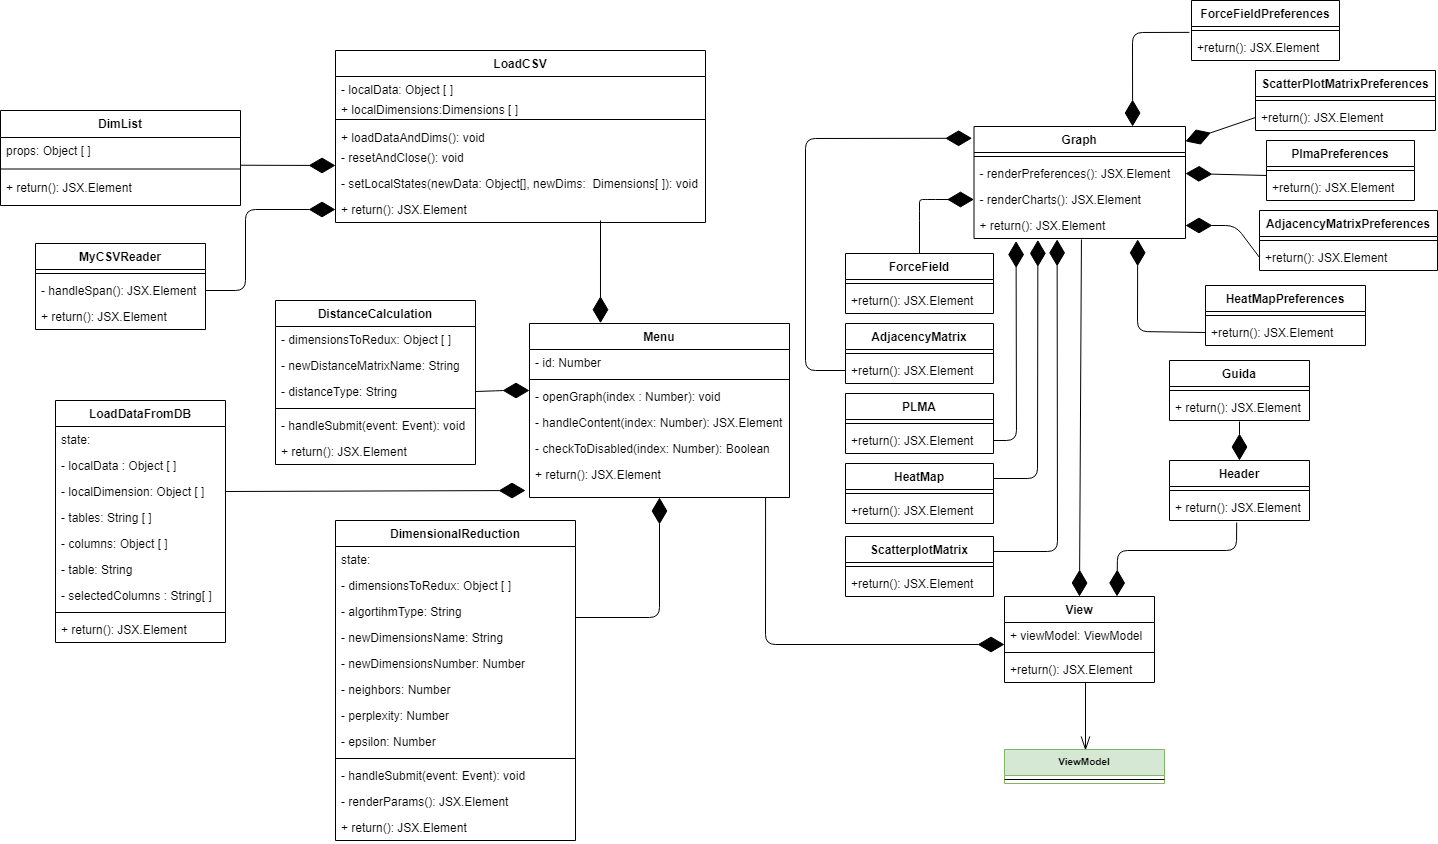
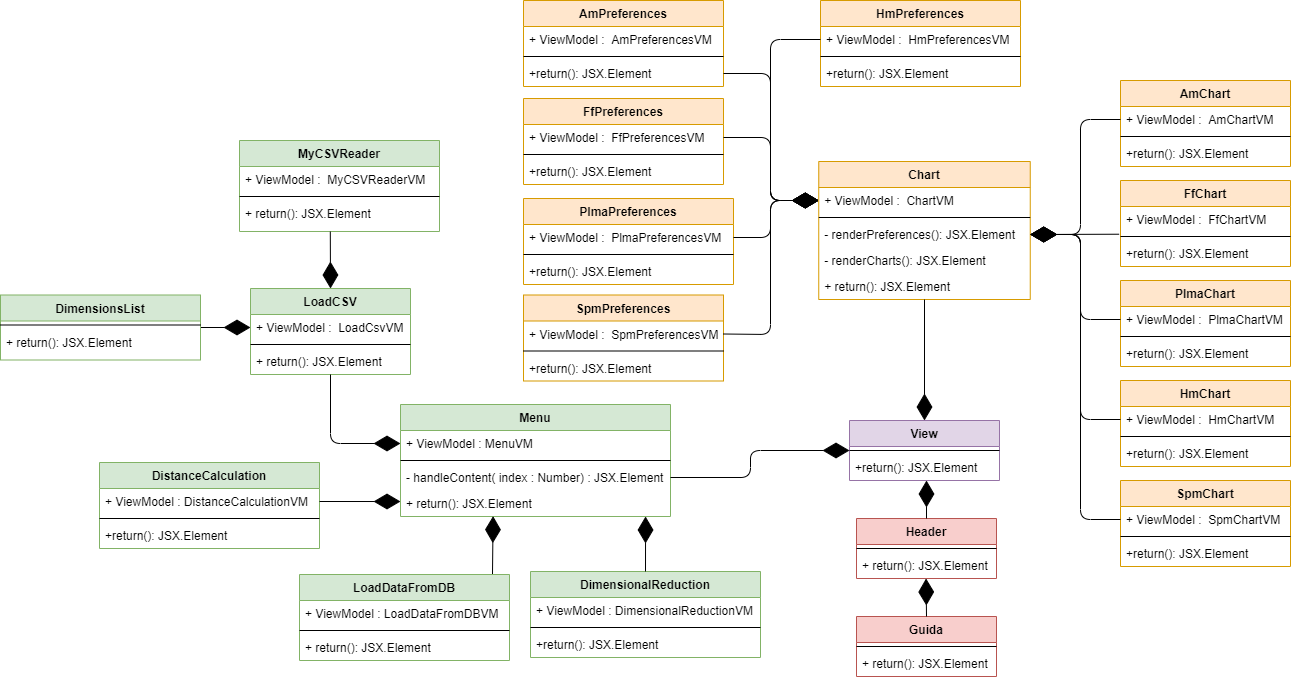
diagrammi allegato

diff --git a/DocEsterna/AllegatoTecnico/Section/ArchitetturaProdotto.tex b/DocEsterna/AllegatoTecnico/Section/ArchitetturaProdotto.tex
@@ -27,14 +27,8 @@ Per poter fare in modo che una componente della \textit{View} si renderizzi non 
 \end{figure}
 \newpage
 
-\subsection{Diagrammi delle classi}
-\begin{figure}[hb]
-\includegraphics[width=14.7cm]{Images/Allegato Tecnico-Class}
-\centering
-\caption{Diagramma delle classi generale}
-\end{figure}
-
 \begin{landscape}
+\subsection{Diagrammi delle classi}
 \vspace*{\fill}
 \begin{figure}[hb]
 \includegraphics[width=\linewidth]{Images/Allegato Tecnico-Model}
@@ -56,37 +50,23 @@ Per poter fare in modo che una componente della \textit{View} si renderizzi non 
 
 \begin{landscape}
 \vspace*{\fill}
-\begin{figure}[hb]
-\includegraphics[width=\linewidth ]{Images/Allegato Tecnico-ViewModel}
-\centering
-\caption{Diagramma delle classi, zoom sul view-model e implementazione del pattern strategy}
-\end{figure}
-\vfill
-\end{landscape}
-\newpage
 \subsection{Diagrammi di sequenza}
 Qui di seguito vengono rappresentati i diagrammi di sequenza per le 3 operazioni più importanti nel progetto:
 \begin{figure}[hb]
-\includegraphics[width=12cm]{Images/Allegato Tecnico-Sequenza-DR}
+\includegraphics[width=17.5cm]{Images/Allegato Tecnico-Sequenza-DR}
 \centering
 \caption{Diagramma di sequenza che modella il processo di riduzione dimensionale}
 \end{figure}
-\newpage
-\vspace*{\fill}
-\begin{figure}[hb]
-\includegraphics[width=15.5cm]{Images/Allegato Tecnico-Sequenza-PLMApref}
-\centering
-\caption{Diagramma di sequenza che modella il processo di visualizzazione delle preferenze per il grafico PLMA}
-\end{figure}
 \vfill
 \newpage
 \vspace*{\fill}
 \begin{figure}[hb]
-\includegraphics[width=15.5cm]{Images/Allegato Tecnico-Sequenza-PLMA}
+\includegraphics[width=19cm]{Images/Allegato Tecnico-Sequenza-PLMA}
 \centering
-\caption{Diagramma di sequenza che modella il processo per la visualizzazione del grafico PLMA}
+\caption{Diagramma di sequenza che modella il processo per la visualizzazione delle preferenze e del grafico PLMA}
 \end{figure}
 \vfill
+\end{landscape}
 \newpage
 
 \subsection{Strategy Pattern}
@@ -98,3 +78,10 @@ Per implementare il processo di riduzione dimensionale è stato utilizzato il de
 \end{itemize}
 
 Nel nostro caso, il pattern si basa sul metodo \texttt{startDR()} che esegue la riduzione dimensionale sui dati scelti e ritorna le nuove dimensioni. La strategy viene passata come stringa e, una volta creata la classe concreta dell'algoritmo scelto, viene costruita l'apposita istanza dalla libreria \textit{Druid.js}.\\Eventuali integrazioni con ulteriori algoritmi di riduzione dimensionale potranno essere effettuate derivando nuove classi concrete dall'interfaccia esposta.
+\begin{figure}[hb]
+\includegraphics[width=\linewidth ]{Images/Allegato Tecnico-Strategy}
+\centering
+\caption{Diagramma delle classi, zoom sul view-model e implementazione del pattern strategy}
+\end{figure}
+\vfill
+\newpage
